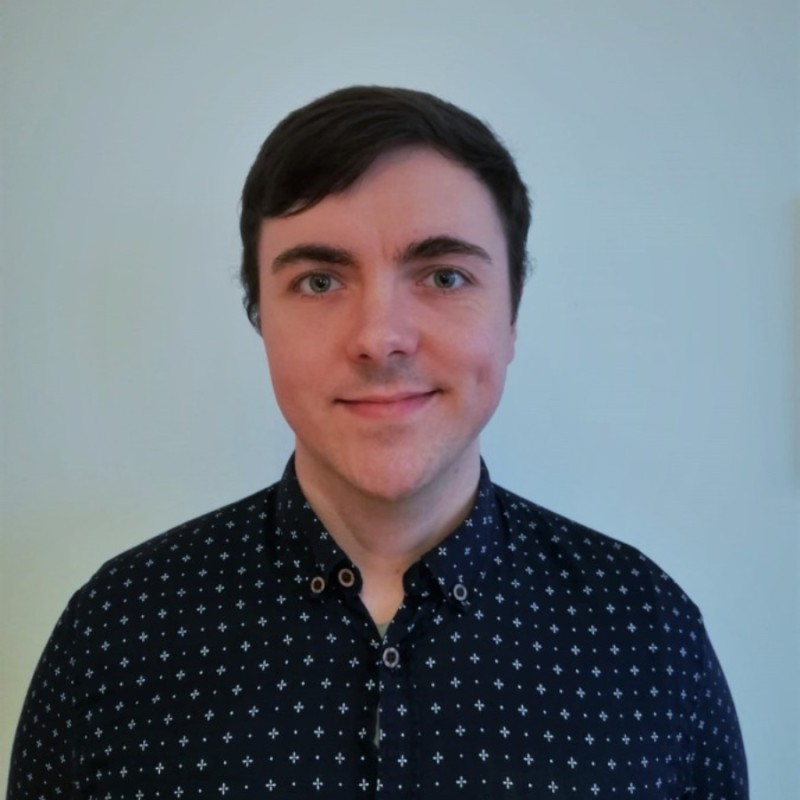
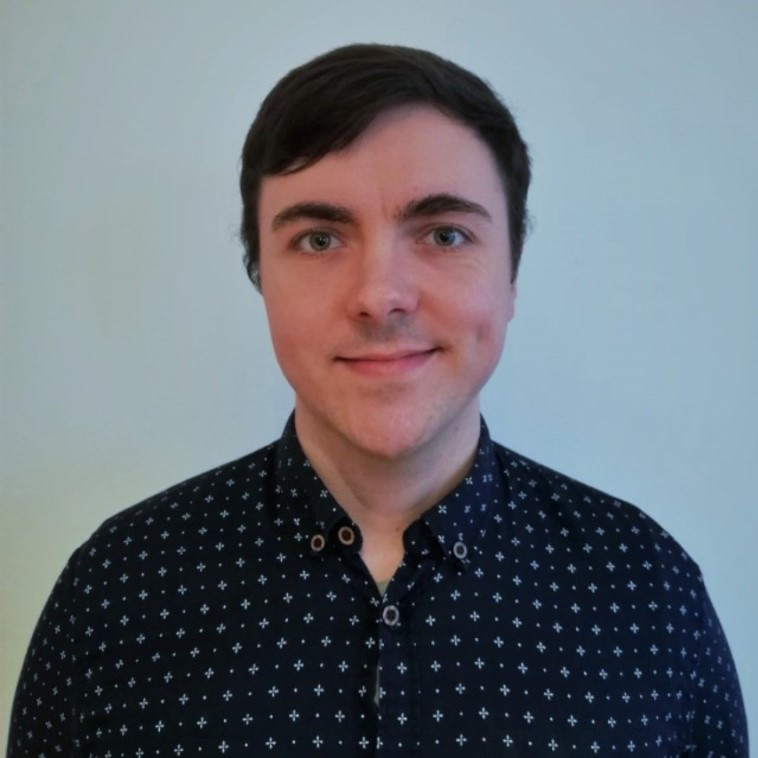
updated home image

diff --git a/index.html b/index.html
@@ -61,7 +61,7 @@
 </div>
 
 <div class = "home-box">
-	<img src="images/me3.png" id="mypic" alt="Picture of me, David Ellis." >
+	<img src="images/me2.jpg" id="mypic" alt="Picture of me, David Ellis." >
 	<div id = "hi">
 		<h2>Hi, I'm Dr David Ellis:</h2>
 		<ul>

diff --git a/style/main-style.css b/style/main-style.css
@@ -151,6 +151,7 @@ html {
 #mypic {
     width: 15em;
     margin: 0em 2em 0.5em 0em;
+    border-radius: 1em;
 }
 
 a:link {

diff --git a/style/portfolio-style.css b/style/portfolio-style.css
@@ -9,6 +9,7 @@
 
 #myBtnContainer {
     margin: 1em auto;
+    margin-bottom: 1.8em;
     text-align: center
 }
 
